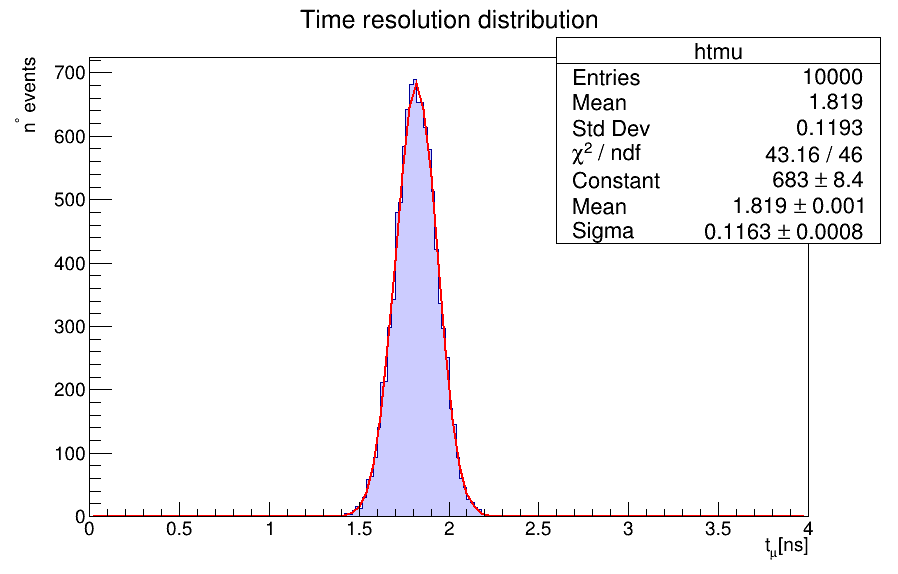
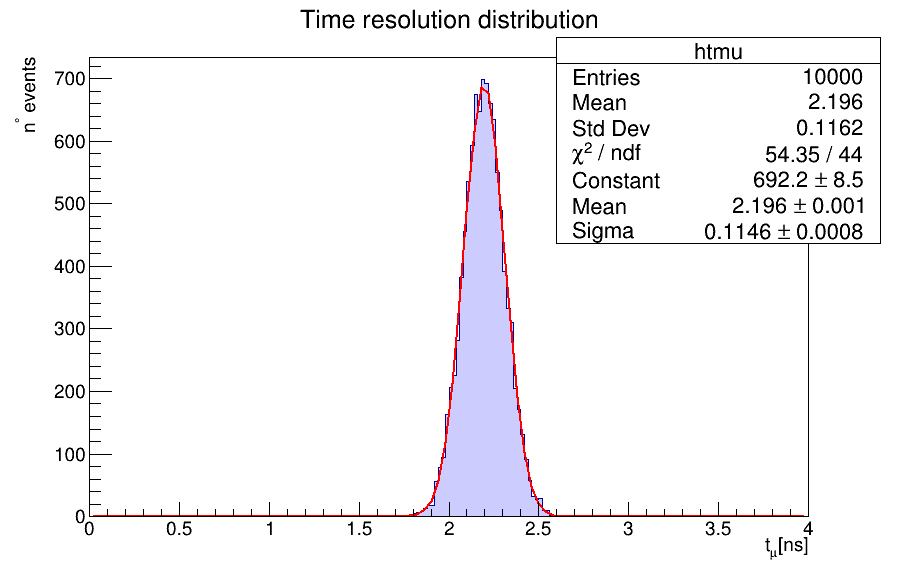
corrected formula in relative time calculatio

diff --git a/src/time_resolution.cpp b/src/time_resolution.cpp
@@ -53,6 +53,10 @@ void LayerTime(std::vector<cell>* vec_cell, double tlay [5] ,double en [5] )
 			tlay[planeID] += t0 * (c.adc1+c.adc2);
 			en[planeID] += c.adc1 + c.adc2;
 		}		
+		if (t0<0)
+		{
+			//std::cout<<"t0="<<t0<<std::endl;
+		}
 	}
 
 	for(int j = 0; j < 5; j++)
@@ -67,12 +71,12 @@ double RelativeTime(std::vector<cell>* vec_cell)
 {
 	double tlay [5] = {0,0,0,0,0};
 	double en [5] = {0,0,0,0,0};
+	double dz [5] = {0,0.22,0.44,0.66,0.905};
 	LayerTime(vec_cell,tlay,en);
 	
-	for(int j = 1; j < 5; j++)
+	for(int j = 0; j < 5; j++)
 	{
-		if (1<j<4) {tlay[j] = tlay[j]-0.22*2.998;} //t0-(dz_layer*c) [ns]
-		else {tlay[j] = tlay[j]-0.245*2.998;}    //t0-(dz_lastlayer*c) [ns]
+		tlay[j] = tlay[j]-dz[j]/2.998; //t0-(dz_layer/c) [ns]
 	}
 	
 	double t = 0;
